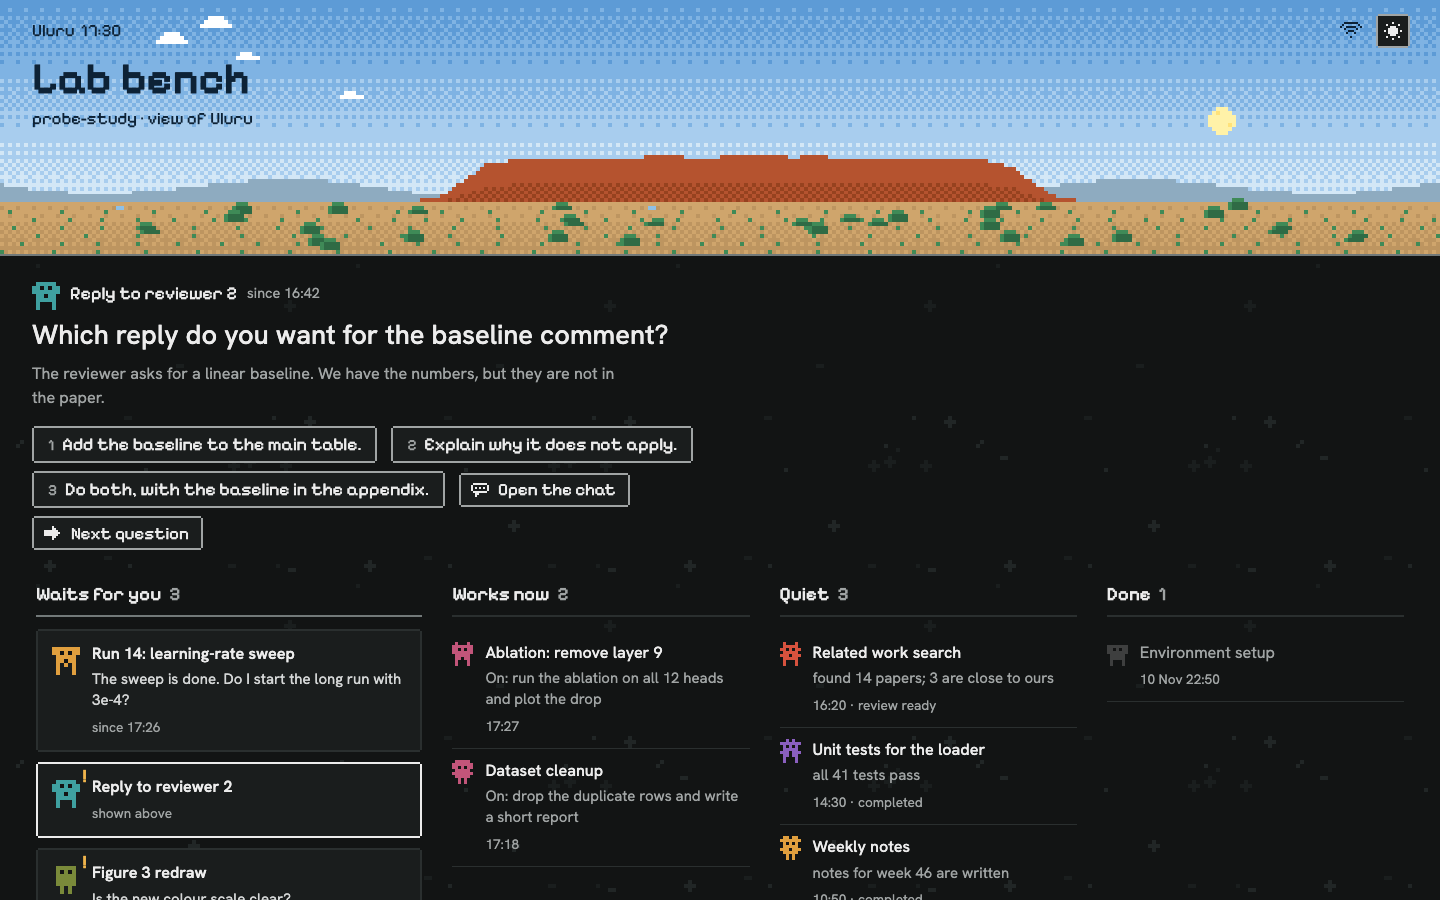
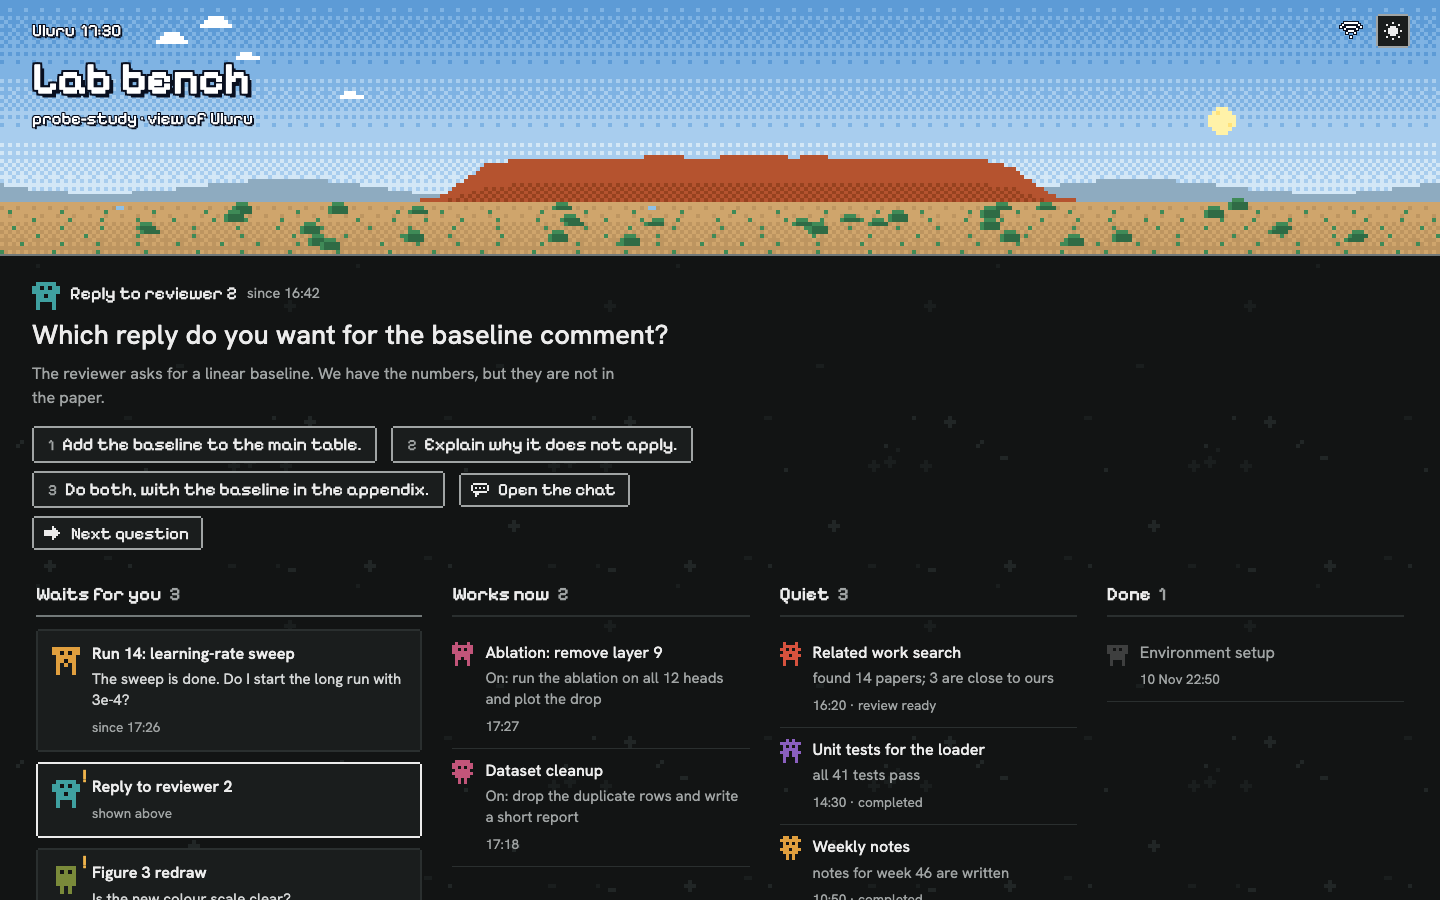
fix: outline the text on the view so it reads at each time of day

Changed region(s): [[0.0, 0.0311, 0.1875, 0.1556]]

diff --git a/web/style.css b/web/style.css
@@ -4,9 +4,12 @@
   --accent:#0b7366;--on-accent:#fff;--amber:#b8730f;--bad:#a23420;--peek:600px;color-scheme:light}
 :root[data-theme="night"]{--bg:#121414;--surface:#1a1d1d;--ink:#ececec;--ink-body:#d4d6d6;--ink-soft:#a0a4a4;--rule:#2a2f2f;--line:#727979;
   --accent:#17cfb9;--on-accent:#04211d;--amber:#f0b44c;--bad:#ff8f78;color-scheme:dark}
-/* text on the view: light with a pixel shadow, dark by day */
-:root{--hud:#fff;--hud-shadow:2px 2px 0 rgba(0,0,0,.55);--hud-drop:drop-shadow(2px 2px 0 rgba(0,0,0,.55))}
-:root[data-sky="day"]{--hud:#0d2236;--hud-shadow:none;--hud-drop:none}
+/* text on the view: light, with a dark pixel outline on all sides and a shadow below.
+   So it reads on sky, rock, trees and water, at each time of day. */
+:root{--hud:#fff;--edge:#0a1020;
+  --hud-shadow:1px 0 0 var(--edge),-1px 0 0 var(--edge),0 1px 0 var(--edge),0 -1px 0 var(--edge),1px 1px 0 var(--edge),-1px -1px 0 var(--edge),1px -1px 0 var(--edge),-1px 1px 0 var(--edge),2px 2px 0 var(--edge);
+  --hud-shadow-big:2px 0 0 var(--edge),-2px 0 0 var(--edge),0 2px 0 var(--edge),0 -2px 0 var(--edge),2px 2px 0 var(--edge),-2px -2px 0 var(--edge),2px -2px 0 var(--edge),-2px 2px 0 var(--edge),4px 4px 0 var(--edge);
+  --hud-drop:drop-shadow(1px 0 0 var(--edge)) drop-shadow(-1px 0 0 var(--edge)) drop-shadow(0 1px 0 var(--edge)) drop-shadow(0 -1px 0 var(--edge))}
 *{box-sizing:border-box}
 html{font-size:17px}
 body{margin:0;background:var(--bg);color:var(--ink-body);font-family:var(--font);line-height:1.5}
@@ -32,9 +35,8 @@ body.peek #wrap{margin-right:min(var(--peek),100vw)}
 #relay{display:inline-flex;align-items:center;gap:8px}
 #relay svg{filter:var(--hud-drop)}
 #relay.off{color:#ff9d8a}
-:root[data-sky="day"] #relay.off{color:#a23420}
 .titlerow{position:relative;display:flex;align-items:center;gap:14px;margin:10px 32px 0}
-h1{font-family:var(--px);font-size:2.6rem;font-weight:600;line-height:1.05;margin:0;color:inherit;text-shadow:var(--hud-shadow)}
+h1{font-family:var(--px);font-size:2.6rem;font-weight:600;line-height:1.05;margin:0;color:inherit;text-shadow:var(--hud-shadow-big)}
 #rename .ib{opacity:0}
 .titlerow:hover #rename .ib,#rename .ib:focus-visible{opacity:1}
 #titleedit{font-family:var(--px);font-size:2.2rem;font-weight:600;line-height:1.05;width:min(560px,70vw);padding:2px 8px;border:0;outline:0;color:var(--ink)}
